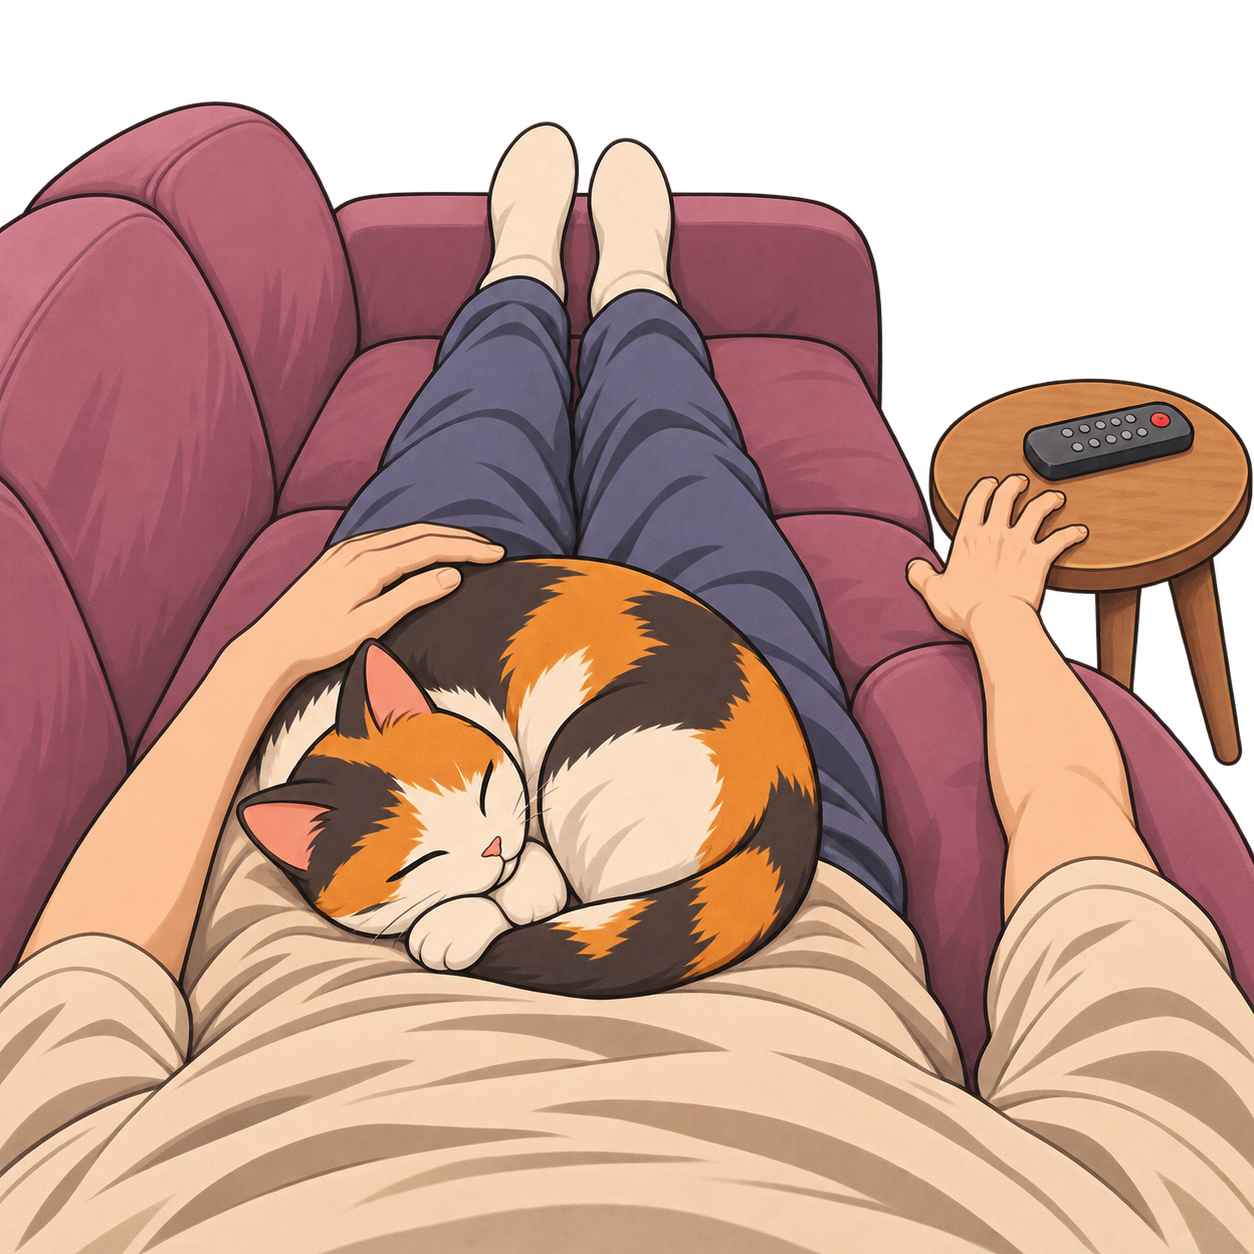
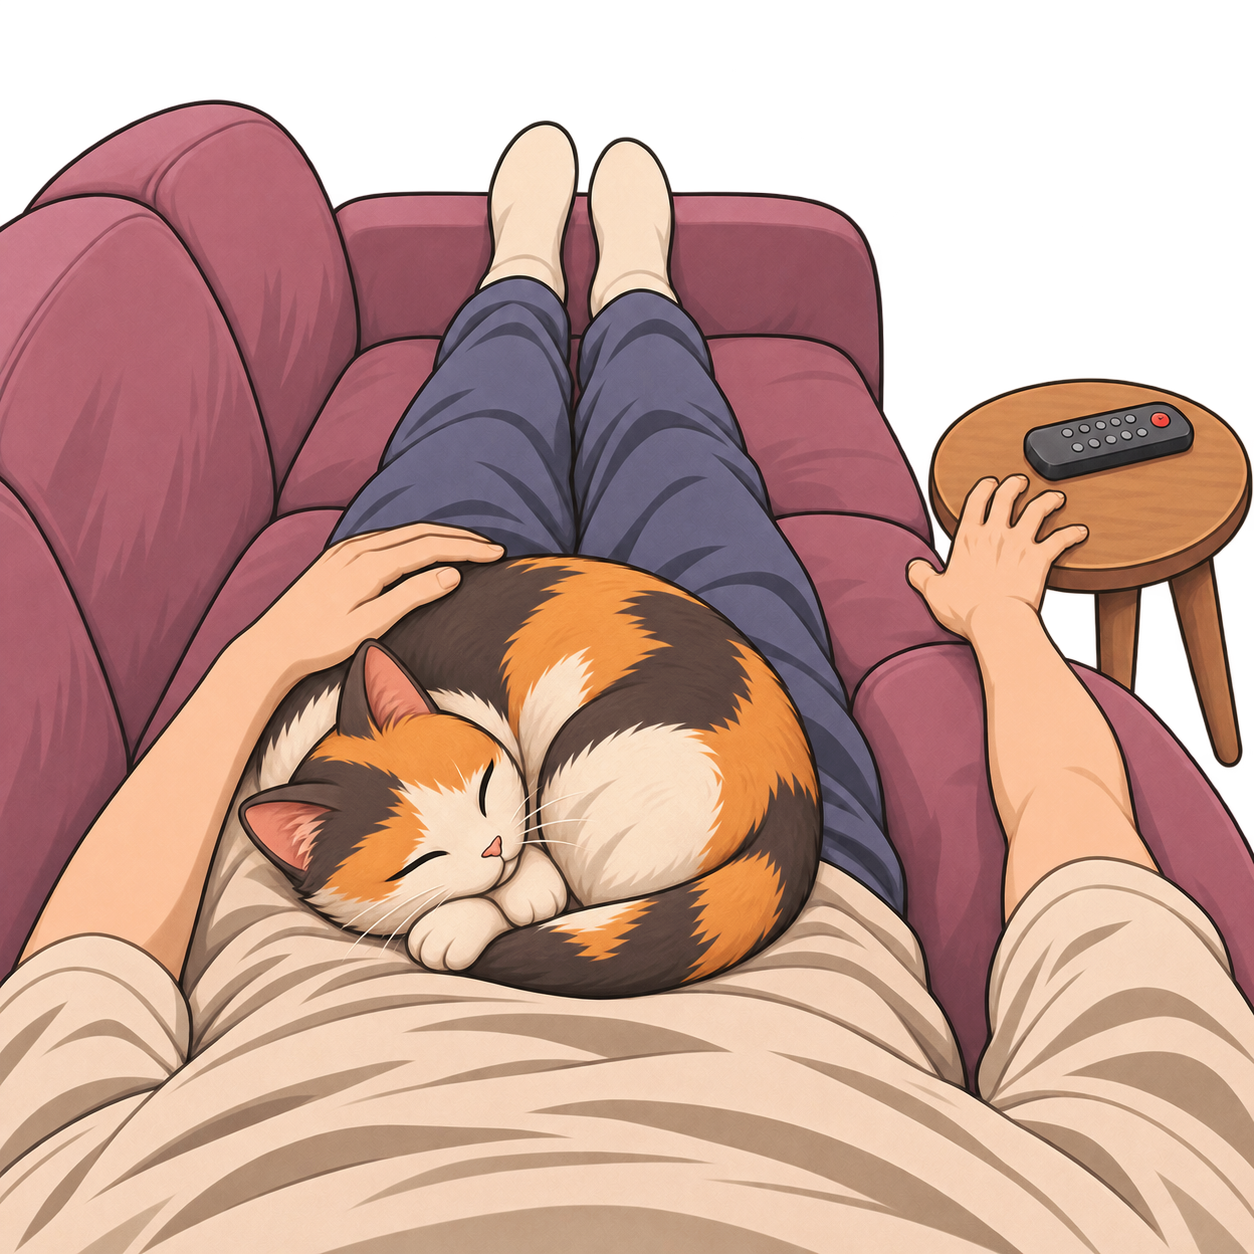
cambios descripciones

diff --git a/app.js b/app.js
@@ -366,7 +366,7 @@ function drawAttackContent(context, category, card, x, y, width, height) {
       if (lines.length * lineHeight <= height * 0.34) break;
       fontSize -= 2;
     }
-    context.fillStyle = palette.tinta;
+    context.fillStyle = palette.detalle;
     const detailY = centerY + height * 0.3;
     const firstLineY = detailY - (lines.length - 1) * lineHeight / 2;
     lines.forEach((line, index) => context.fillText(line, centerX, firstLineY + index * lineHeight, textWidth));

diff --git a/README.md b/README.md
@@ -77,6 +77,8 @@ Todas las cartas usan tamaño físico **63,5 × 88 mm**, equivalente a **1800 ×
 
 Las proporciones, posiciones y tamaños de texto se definen en `diseno` dentro de cada YAML; las familias tipográficas y el renderizado están en `app.js`. Si se cambia una medida, comprueba tanto la vista previa como la exportación final.
 
+Mantén las descripciones breves, idealmente en 2-3 líneas impresas; deja los pasos y excepciones detallados para el reglamento. El tamaño de letra debe seguir siendo legible y solo reducirse automáticamente cuando el texto no quepa.
+
 Paletas actuales:
 
 | Categoría | Marco | Fondo | Superficies de texto/panel | Detalle |
